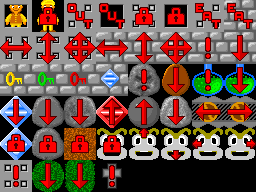
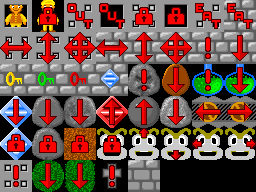
added separate level editor graphics for BD style non-sloped wall

Changed region(s): [[0.5, 0.8125, 0.625, 1.0]]

diff --git a/src/conf_gfx.c b/src/conf_gfx.c
@@ -699,7 +699,10 @@ struct ConfigInfo image_config[] =
   { "bdx_wall_sloped_down_right.frames",		"1"				},
 
   { "bdx_wall_non_sloped",				UNDEFINED_FILENAME		},
-  { "bdx_wall_non_sloped.clone_from",			"wall"				},
+  { "bdx_wall_non_sloped.clone_from",			"bdx_wall"			},
+  { "bdx_wall_non_sloped.EDITOR",			"RocksBD2.png"			},
+  { "bdx_wall_non_sloped.EDITOR.xpos",			"4"				},
+  { "bdx_wall_non_sloped.EDITOR.ypos",			"5"				},
 
   { "bdx_wall_diggable",				UNDEFINED_FILENAME		},
   { "bdx_wall_diggable.clone_from",			"bdx_wall"			},
